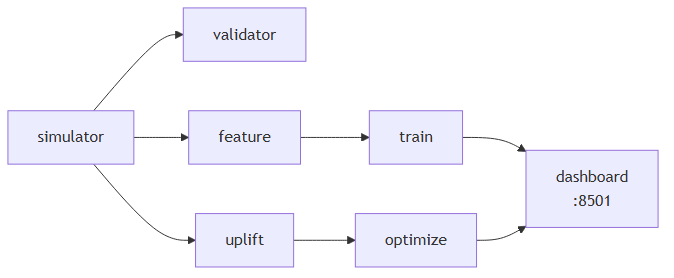
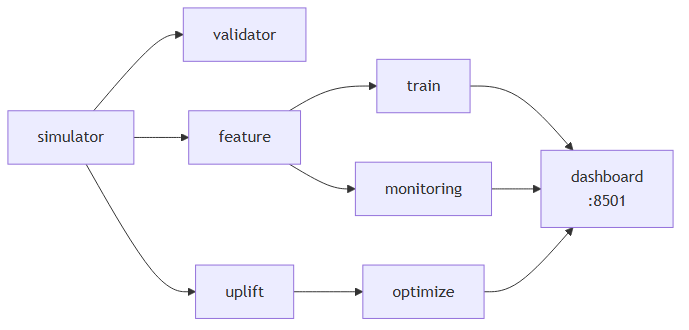
fix:code rabbit 따라 수정

diff --git a/src/monitoring/run_monitoring.py b/src/monitoring/run_monitoring.py
@@ -103,6 +103,13 @@ def run_drift_monitoring(
     # 코호트 분할 기준(signup_date)은 feature_store 에 없으므로 customers.csv 에서 조인.
     customers = pd.read_csv(customers_path, usecols=["customer_id", "signup_date"])
     customers["signup_date"] = pd.to_datetime(customers["signup_date"], errors="coerce")
+
+    # customer_id 중복 시 left join 이 feature 행을 복제해 PSI/KS 를 왜곡 → 사전 차단.
+    n_dup = int(customers["customer_id"].duplicated().sum())
+    if n_dup:
+        logger.warning("[Monitor] customers.csv customer_id 중복 %d건 → 첫 행만 유지", n_dup)
+        customers = customers.drop_duplicates(subset="customer_id", keep="first")
+
     fs = fs.merge(customers, on="customer_id", how="left")
     fs = fs.dropna(subset=["signup_date"])
 
@@ -125,6 +132,11 @@ def run_drift_monitoring(
         )
 
     feature_cols = _numeric_feature_cols(fs)
+    if not feature_cols:
+        raise ValueError(
+            "드리프트 점검 대상 numeric 피처가 없습니다. "
+            "feature_store 의 컬럼/타입(또는 _NON_FEATURE_COLS 과대 제외)을 확인하세요."
+        )
 
     detector = DriftDetector(threshold_psi=threshold_psi, threshold_ks=threshold_ks)
     detector.run_monitoring(reference_df, current_df, feature_cols)

diff --git a/README.md b/README.md
@@ -133,7 +133,7 @@ flowchart TB
         MON["모델 모니터링\nPSI / KS-test / Drift 알림"]
         REPORT[("results/\nCSV / PNG / JSON")]
         OPT & AB & SEG --> DASH
-        ENS --> MON
+        STORE --> MON
         DASH & MON --> REPORT
     end
 
@@ -477,7 +477,9 @@ flowchart LR
 [피처 엔지니어링]                          ← config/model_config.yaml
     │
     ▼  data/processed/feature_store.parquet
-[ML/DL 모델 학습]   ·   [모델 모니터링] → results/monitoring_report.json
+    ├──► [모델 모니터링]  feature_store + customers 가입 코호트 분할 → results/monitoring_report.json
+    │
+[ML/DL 모델 학습]
     │
     ▼  models/{xgboost,lightgbm}_v1.joblib, models/lstm_v1.pt
 [Uplift Modeling / CLV / 세그먼테이션]
